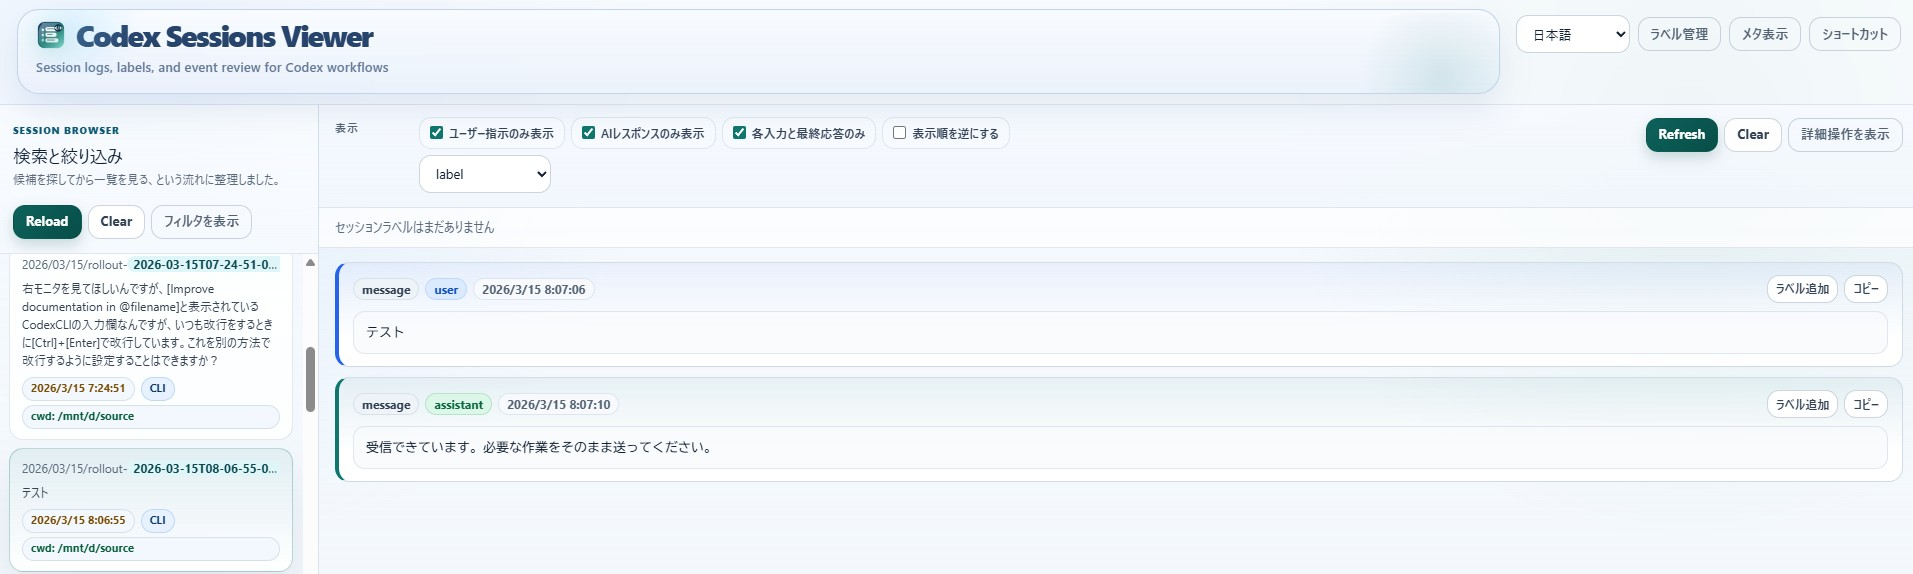
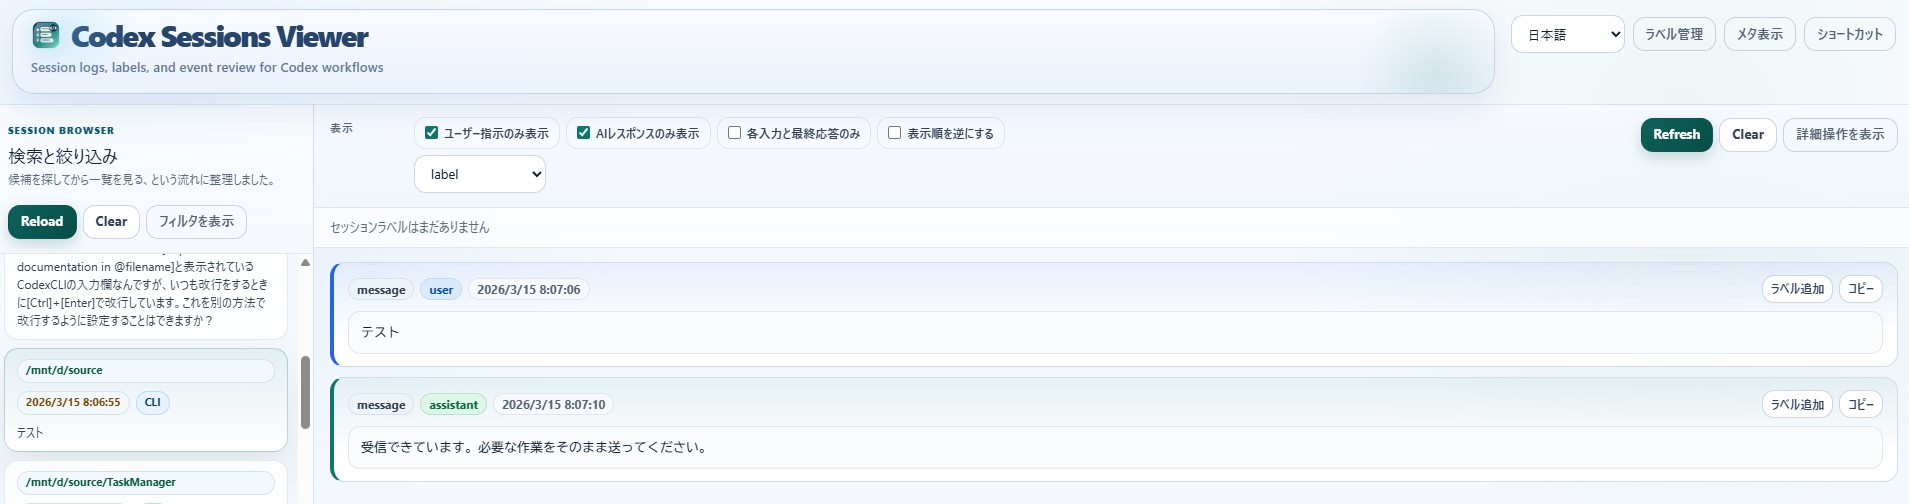
フォント調整

diff --git a/viewer.py b/viewer.py
@@ -1736,7 +1736,7 @@ button:disabled {
   padding: 0 6px;
 }
 .session-preview {
-  margin-top: 6px;
+  margin-top: 8px;
   font-size: var(--text-caption);
   line-height: 1.5;
   color: #354252;
@@ -1750,7 +1750,7 @@ button:disabled {
   min-width: 0;
 }
 .session-meta-row-secondary {
-  margin-top: 4px;
+  margin-top: 0;
 }
 .session-badge {
   display: inline-flex;
@@ -4732,16 +4732,15 @@ function renderSessionList(){
   } else {
     box.innerHTML = state.filtered.map(s => `
       <div class="session-item ${state.activePath === s.path ? 'active' : ''}" data-path="${esc(s.path)}">
-        <div class="session-path">${highlightSessionPath(s.relative_path)}</div>
-        <div class="session-preview">${esc(s.first_real_user_text || s.first_user_text || t('session.preview.empty'))}</div>
+        <div class="session-meta-row session-meta-row-secondary">
+          <div class="session-badge session-cwd">${esc(s.cwd || '-')}</div>
+        </div>
         <div class="session-meta-row session-meta-row-primary">
           <div class="session-badge session-time">${esc(fmt(s.started_at || s.mtime))}</div>
           <div class="session-badge session-source source-${esc(normalizeSource(s.source))}">${esc(sourceLabel(s.source))}</div>
         </div>
+        <div class="session-preview">${esc(s.first_real_user_text || s.first_user_text || t('session.preview.empty'))}</div>
         ${(s.session_labels || []).length ? `<div class="session-label-row">${renderAssignedLabels(s.session_labels || [])}</div>` : ''}
-        <div class="session-meta-row session-meta-row-secondary">
-          <div class="session-badge session-cwd">cwd: ${esc(s.cwd || '-')}</div>
-        </div>
       </div>
     `).join('');
   }
